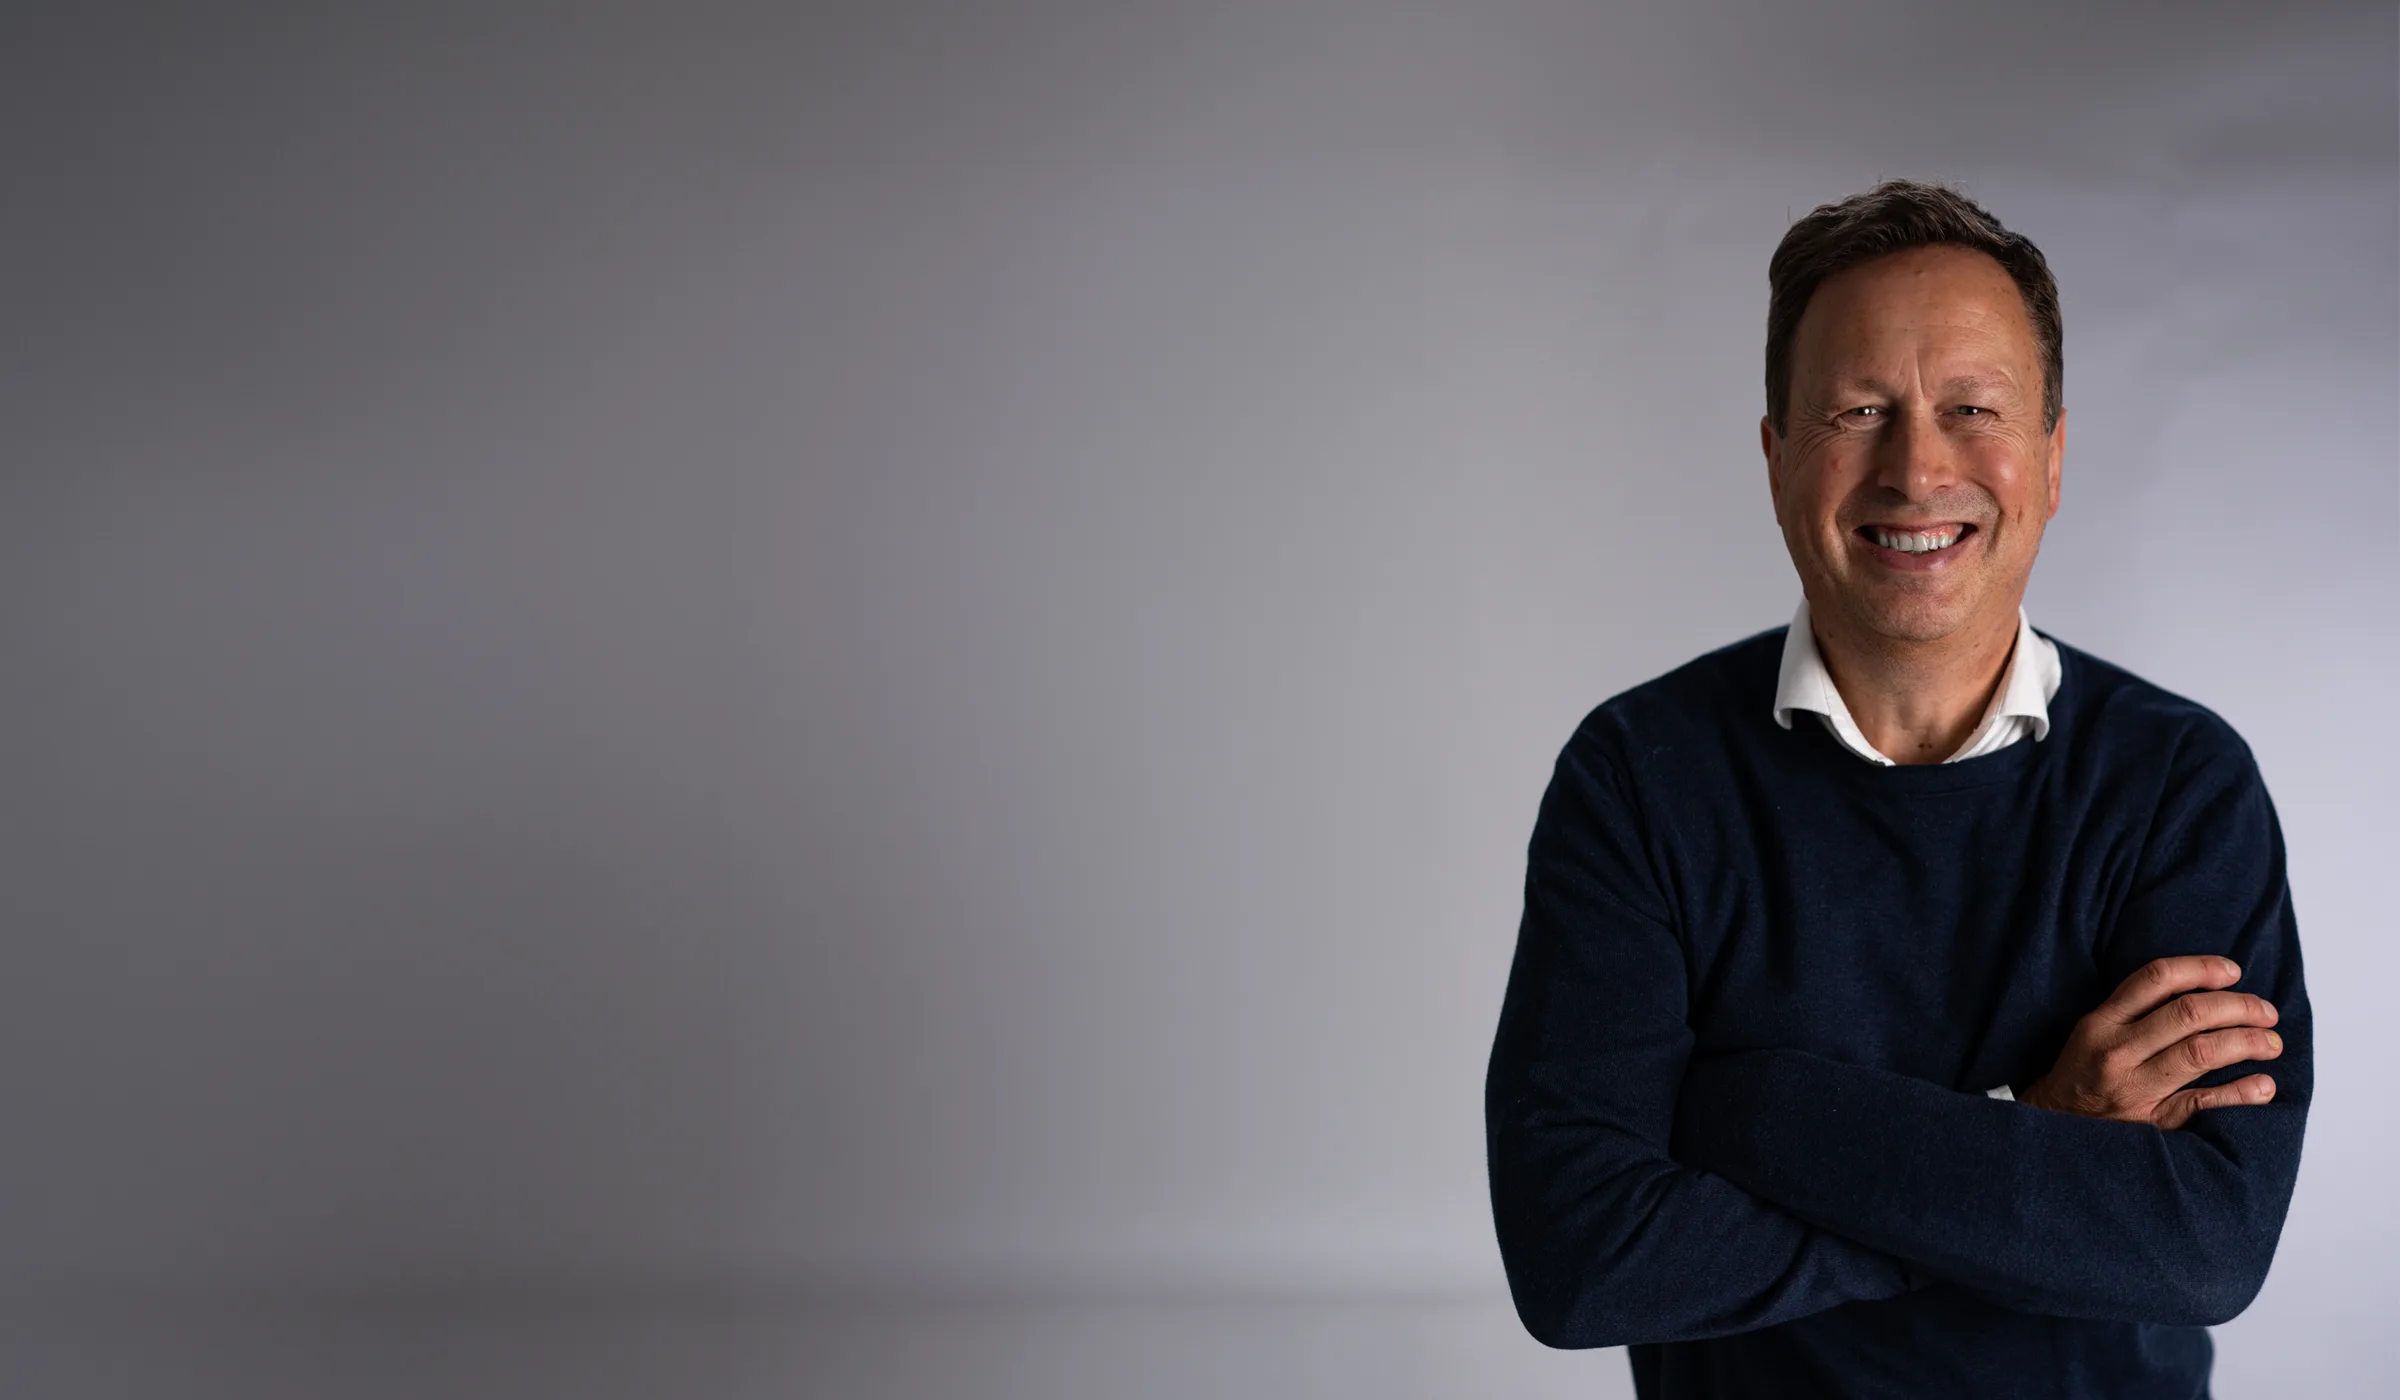
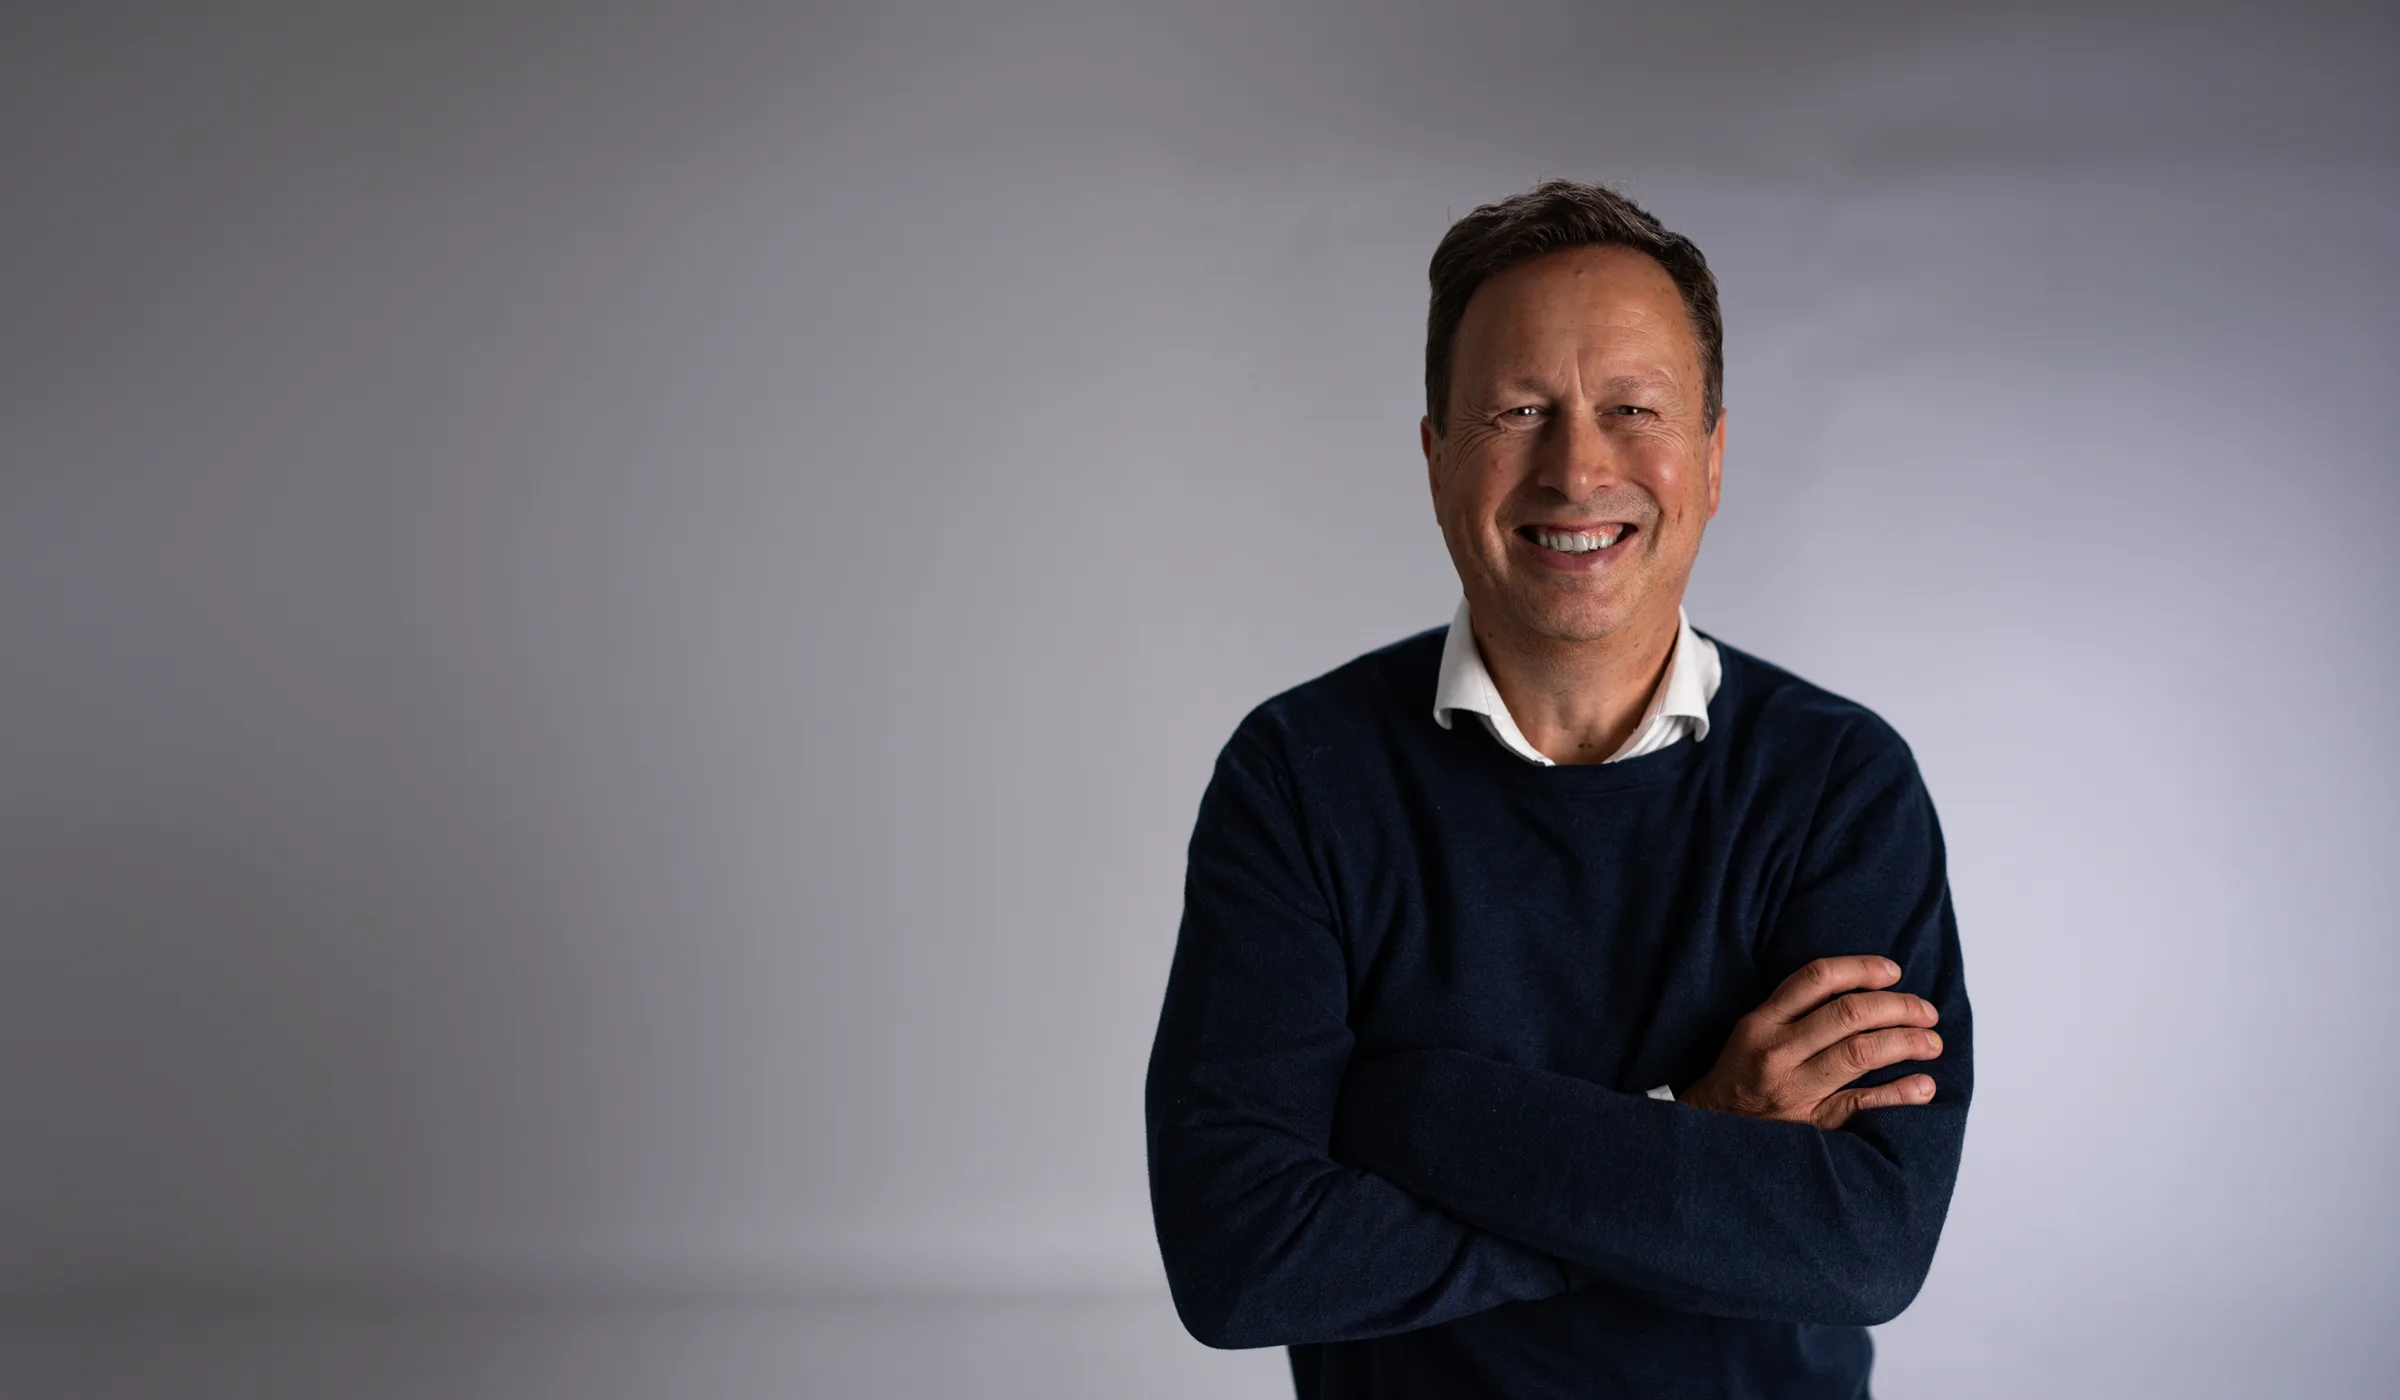
push new images

diff --git a/app/page.tsx b/app/page.tsx
@@ -76,7 +76,7 @@ export default function Home() {
       <section id="om-meg" className="mx-auto grid max-w-7xl gap-14 px-6 py-28 lg:grid-cols-[0.9fr_1.1fr] lg:px-10 lg:py-36">
         <div className="relative min-h-[420px] overflow-hidden rounded shadow-xl">
           <Image
-            src="/images/thomas-podcast.jpg"
+            src="/images/thomas-podcast.webp"
             alt="Thomas Gjelsås i podkaststudio"
             fill
             sizes="(max-width: 1024px) 100vw, 45vw"
@@ -130,7 +130,7 @@ export default function Home() {
       <section className="grid bg-white lg:grid-cols-2">
         <div className="relative min-h-[420px]">
           <Image
-            src="/images/podcast-studio.jpg"
+            src="/images/podcast-studio.webp"
             alt="Podkaststudio med mikrofon"
             fill
             sizes="(max-width: 1024px) 100vw, 50vw"